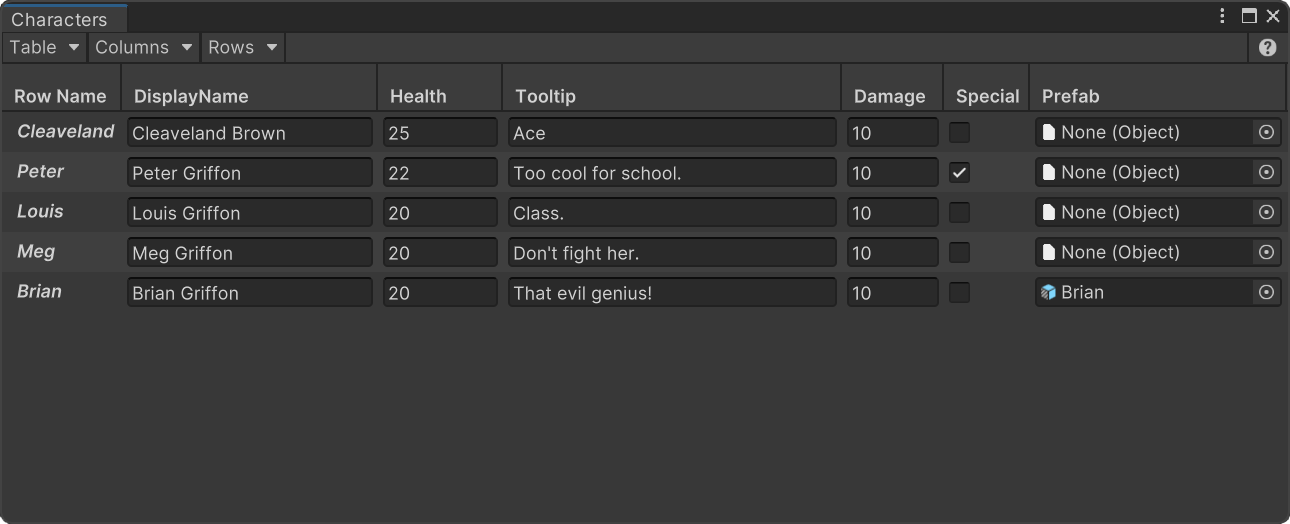
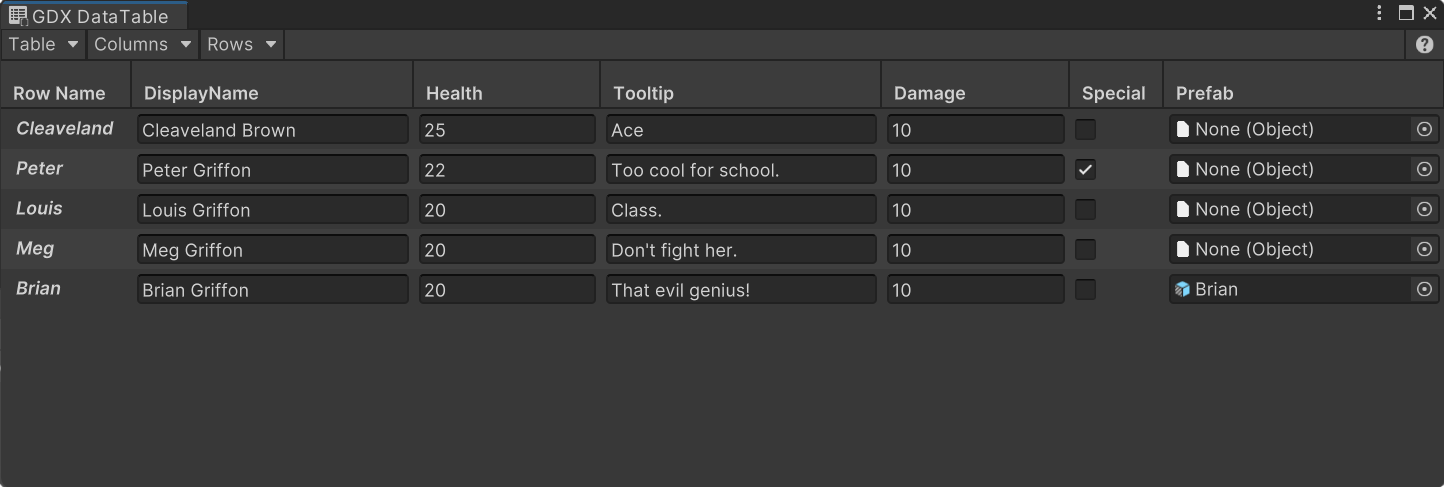
New images / fixed changelog

diff --git a/.docfx/manual/features/serializable-dictionary.md b/.docfx/manual/features/serializable-dictionary.md
@@ -11,12 +11,12 @@ A typical piece of feedback we've heard repeatedly is that Unity needs to have a
 
 ![Property Drawer](/images/manual/features/serializable-dictionary/string-prefab.png)
 
-One of the pillars of design for the `SerializableDictionary` was making sure that its workflow in editor kept in line with Unity's `OrderedList` inspector, with some obvious contextual tweaks. The left side (**A**) contains the entry's key, with its value (**B**) being listed directly beside it. Clicking on that row selects it, making the subtraction (**-**) button on the right available.  
+One of the pillars of design for the `SerializableDictionary` was making sure that its workflow in editor kept in line with Unity's `OrderedList` inspector, with some obvious contextual tweaks. The left side contains the entry's key, with its value being listed directly beside it. Clicking on that row selects it, making the subtraction (**-**) button on the right available.  
 
 > [!NOTE]
 > The addition button (**+**) only becomes available when a valid and unique key is provided.
 
-The ability to edit the number of elements in the collection (**C**) is disabled due to the difficulty of predetermining valid keys for various types effectively.
+The ability to edit the number of elements in the collection is disabled due to the difficulty of predetermining valid keys for various types effectively.
 
 ## Code Example
 

diff --git a/CHANGELOG.md b/CHANGELOG.md
@@ -24,7 +24,7 @@ and this project adheres to [Semantic Versioning](https://semver.org/spec/v2.0.0
 - `WaitFor` program flow helper.
 - `AssetDatabaseReference` weak-reference objects with helpers.
 - `EditorPrefsCache` to cache editor preference accessing.
-- `StableTable` implementation of new `TableBase` with full suite of supporting references `*CellValue`.
+- `StableDataTable` implementation of new `DataTableBase` with full suite of supporting references `*CellValue`.
 - Spreadsheet-like editing experience for `DataTableBase` inheriting objects (_Unity 2022.2+_)
 
 ### Changed
